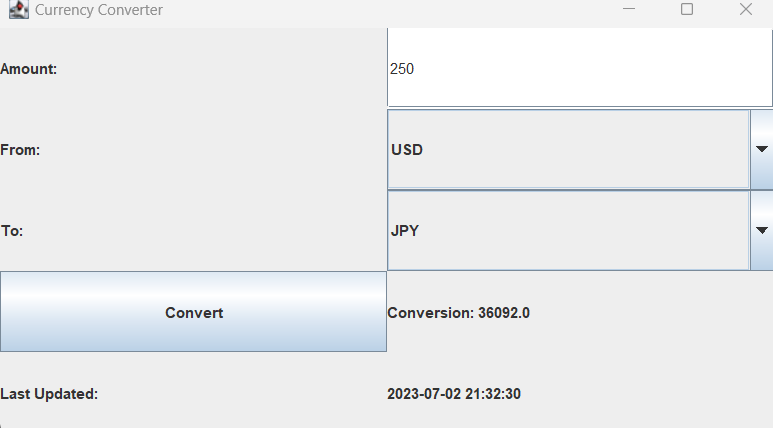
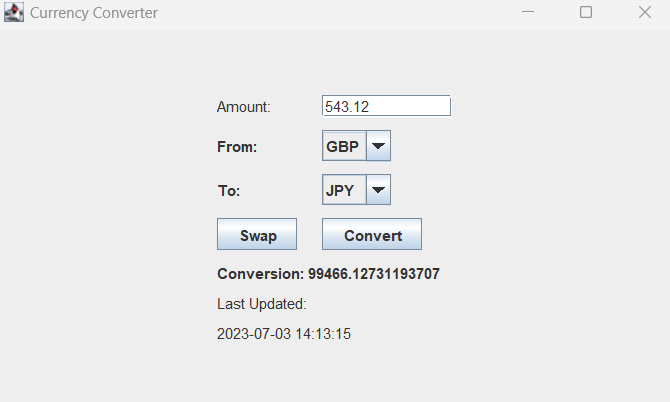
Refactoring/Styling Components

diff --git a/src/main/java/model/CurrencyConverter.java b/src/main/java/model/CurrencyConverter.java
@@ -2,26 +2,11 @@ package model;
 
 import service.CurrencyConverterService;
 
-
-import java.awt.event.ActionEvent;
-import java.awt.event.ActionListener;
+import javax.swing.*;
+import java.awt.*;
 import java.text.SimpleDateFormat;
 import java.util.Date;
-import javax.swing.*;
 
-
-import java.awt.Font;
-import java.awt.GridBagConstraints;
-import java.awt.GridBagLayout;
-import java.awt.Insets;
-
-
-import javax.swing.JButton;
-import javax.swing.JComboBox;
-import javax.swing.JFrame;
-import javax.swing.JLabel;
-import javax.swing.JPanel;
-import javax.swing.JTextField;
 
 
 // need to make a GUI window/frame
@@ -59,8 +44,19 @@ public class CurrencyConverter extends JFrame {
         JLabel lblToCurrency = new JLabel("To:");
         cmbToCurrency = new JComboBox<>(new String[]{"USD", "EUR", "GBP", "MXN", "CHF", "JPY", "CAD"});
 
+
         JButton btnConvert = new JButton("Convert");
         lblConversion = new JLabel("Conversion: "); //displays the conversion
+
+
+        JButton btnSwap = new JButton("Swap");
+        btnSwap.addActionListener(e -> {
+            int fromIndex = cmbFromCurrency.getSelectedIndex();
+            int toIndex = cmbToCurrency.getSelectedIndex();
+
+            cmbFromCurrency.setSelectedIndex(toIndex);
+            cmbToCurrency.setSelectedIndex(fromIndex);
+        });
 
         JLabel lblTimestampLabel = new JLabel("Last Updated:");
         lblTimestampLabel.setFont(font);
@@ -75,82 +71,60 @@ public class CurrencyConverter extends JFrame {
             convertCurrency();
         });
 
-        // Create panels (container) to add (store) components
-//        JPanel panel = new JPanel();
-//        panel.setLayout(new GridLayout(5, 2));
-//        panel.add(lblAmount);
-//        panel.add(txtAmount);
-//        panel.add(lblFromCurrency);
-//        panel.add(cmbFromCurrency);
-//        panel.add(lblToCurrency);
-//        panel.add(cmbToCurrency);
-//        panel.add(btnConvert);
-//        panel.add(lblConversion);
-//        panel.add(lblTimestampLabel);
-//        panel.add(lblTimestamp);
+        // Create panels (container) to add (store) components with GridBagLayout
 
-        // Create panel with GridBagLayout
         JPanel panel = new JPanel(new GridBagLayout());
         GridBagConstraints gbc = new GridBagConstraints();
         gbc.insets = new Insets(5, 10, 5, 10); // Margin/padding
 
 
         gbc.gridx = 0;
-        gbc.gridy = 1;
+        gbc.gridy = 0;
+        gbc.anchor = GridBagConstraints.WEST;
         panel.add(lblAmount, gbc);
 
         gbc.gridx = 1;
-        gbc.gridy = 1;
         panel.add(txtAmount, gbc);
 
         gbc.gridx = 0;
-        gbc.gridy = 2;
+        gbc.gridy = 1;
         panel.add(lblFromCurrency, gbc);
 
         gbc.gridx = 1;
-        gbc.gridy = 2;
         panel.add(cmbFromCurrency, gbc);
 
         gbc.gridx = 0;
-        gbc.gridy = 3;
+        gbc.gridy = 2;
         panel.add(lblToCurrency, gbc);
 
         gbc.gridx = 1;
-        gbc.gridy = 3;
         panel.add(cmbToCurrency, gbc);
+
+        gbc.gridx = 0;
+        gbc.gridy = 3;
+        panel.add(btnSwap, gbc);
+
+        gbc.gridx = 1;
+        panel.add(btnConvert, gbc);
 
         gbc.gridx = 0;
         gbc.gridy = 4;
         gbc.gridwidth = 2;
-        panel.add(btnConvert, gbc);
+        panel.add(lblConversion, gbc);
 
         gbc.gridx = 0;
         gbc.gridy = 5;
         gbc.gridwidth = 2;
-        panel.add(lblConversion, gbc);
+        panel.add(lblTimestampLabel, gbc);
 
         gbc.gridx = 0;
         gbc.gridy = 6;
         gbc.gridwidth = 2;
-        gbc.anchor = GridBagConstraints.LINE_START;
-        gbc.insets = new Insets(10, 0, 0, 0); // Adjusted insets for spacing
-        panel.add(lblTimestampLabel, gbc);
-
-        gbc.gridx = 0;
-        gbc.gridy = 7;
-        gbc.gridwidth = 2;
-        gbc.anchor = GridBagConstraints.LINE_START;
-        gbc.insets = new Insets(10, 0, 0, 0); // Adjusted insets for spacing
         panel.add(lblTimestamp, gbc);
+
 
         // Set panel font
         panel.setFont(font);
-
-
-
-
-
-
 
         // Add panels to the frame
         add(panel);
@@ -158,6 +132,7 @@ public class CurrencyConverter extends JFrame {
         // Display the frame
         setVisible(true);
     }
+
 
     /**
      * This method performs the currency conversion based on the user input.
